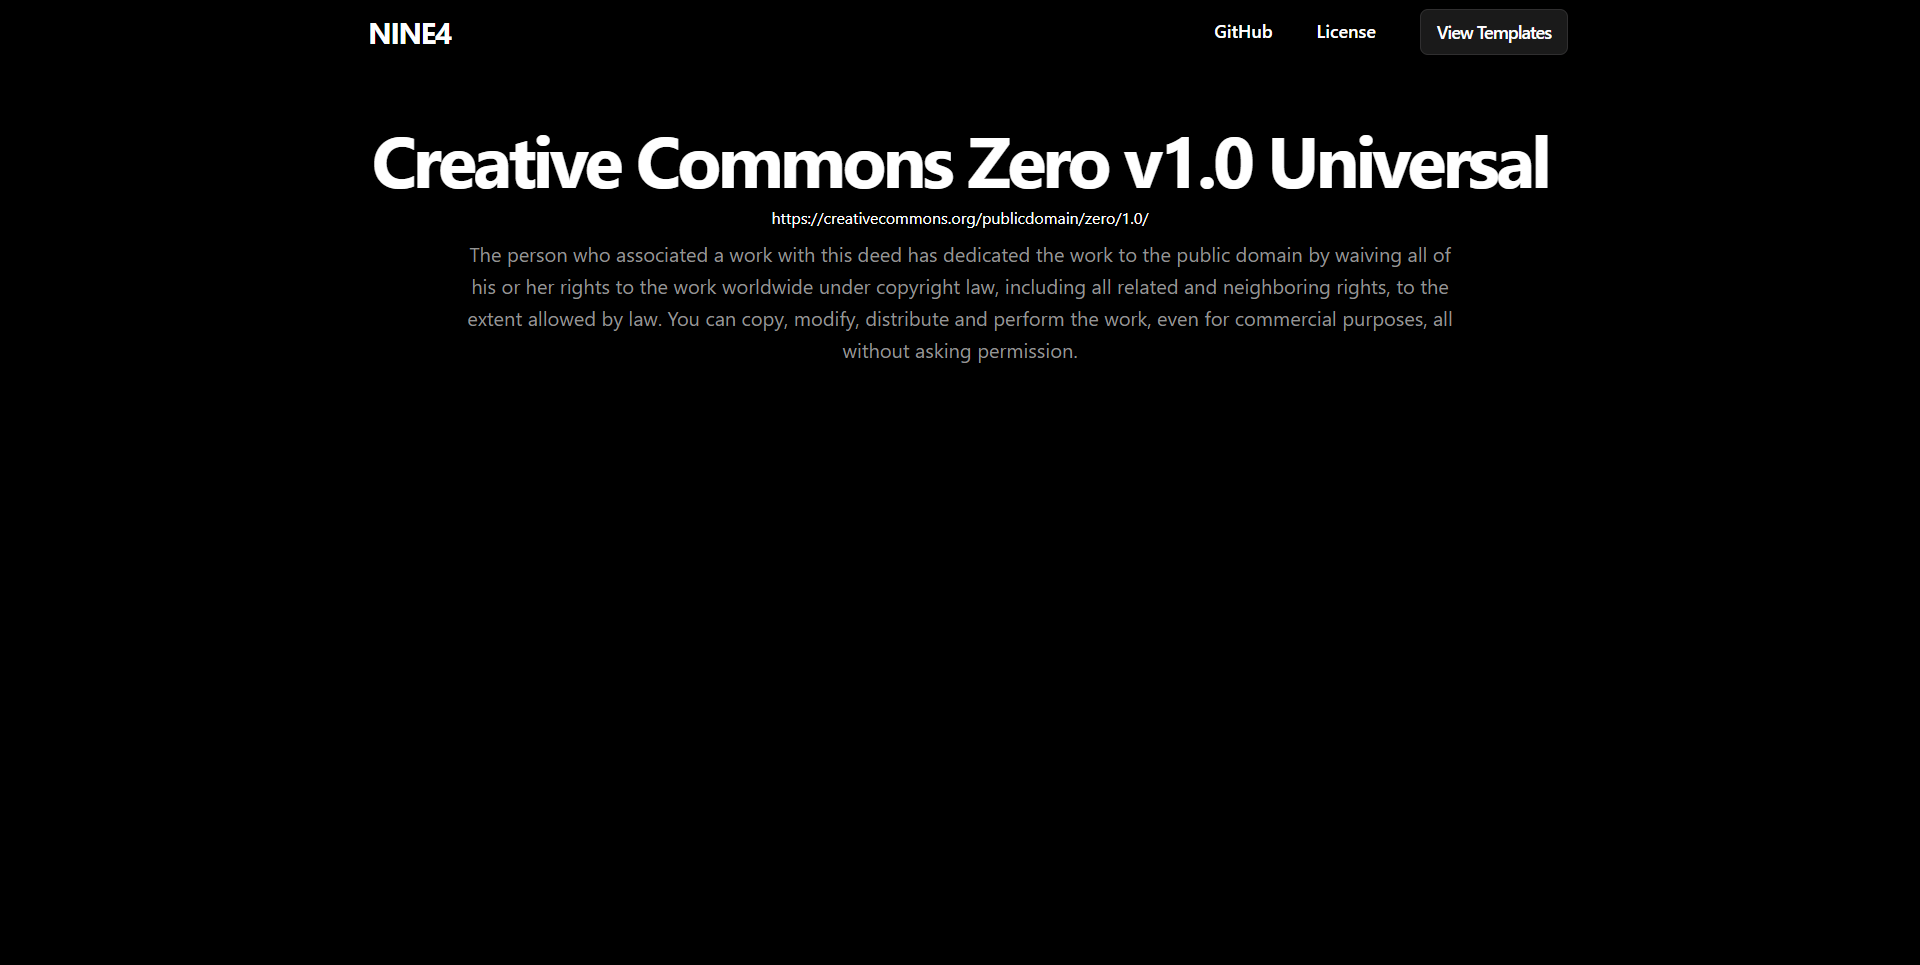
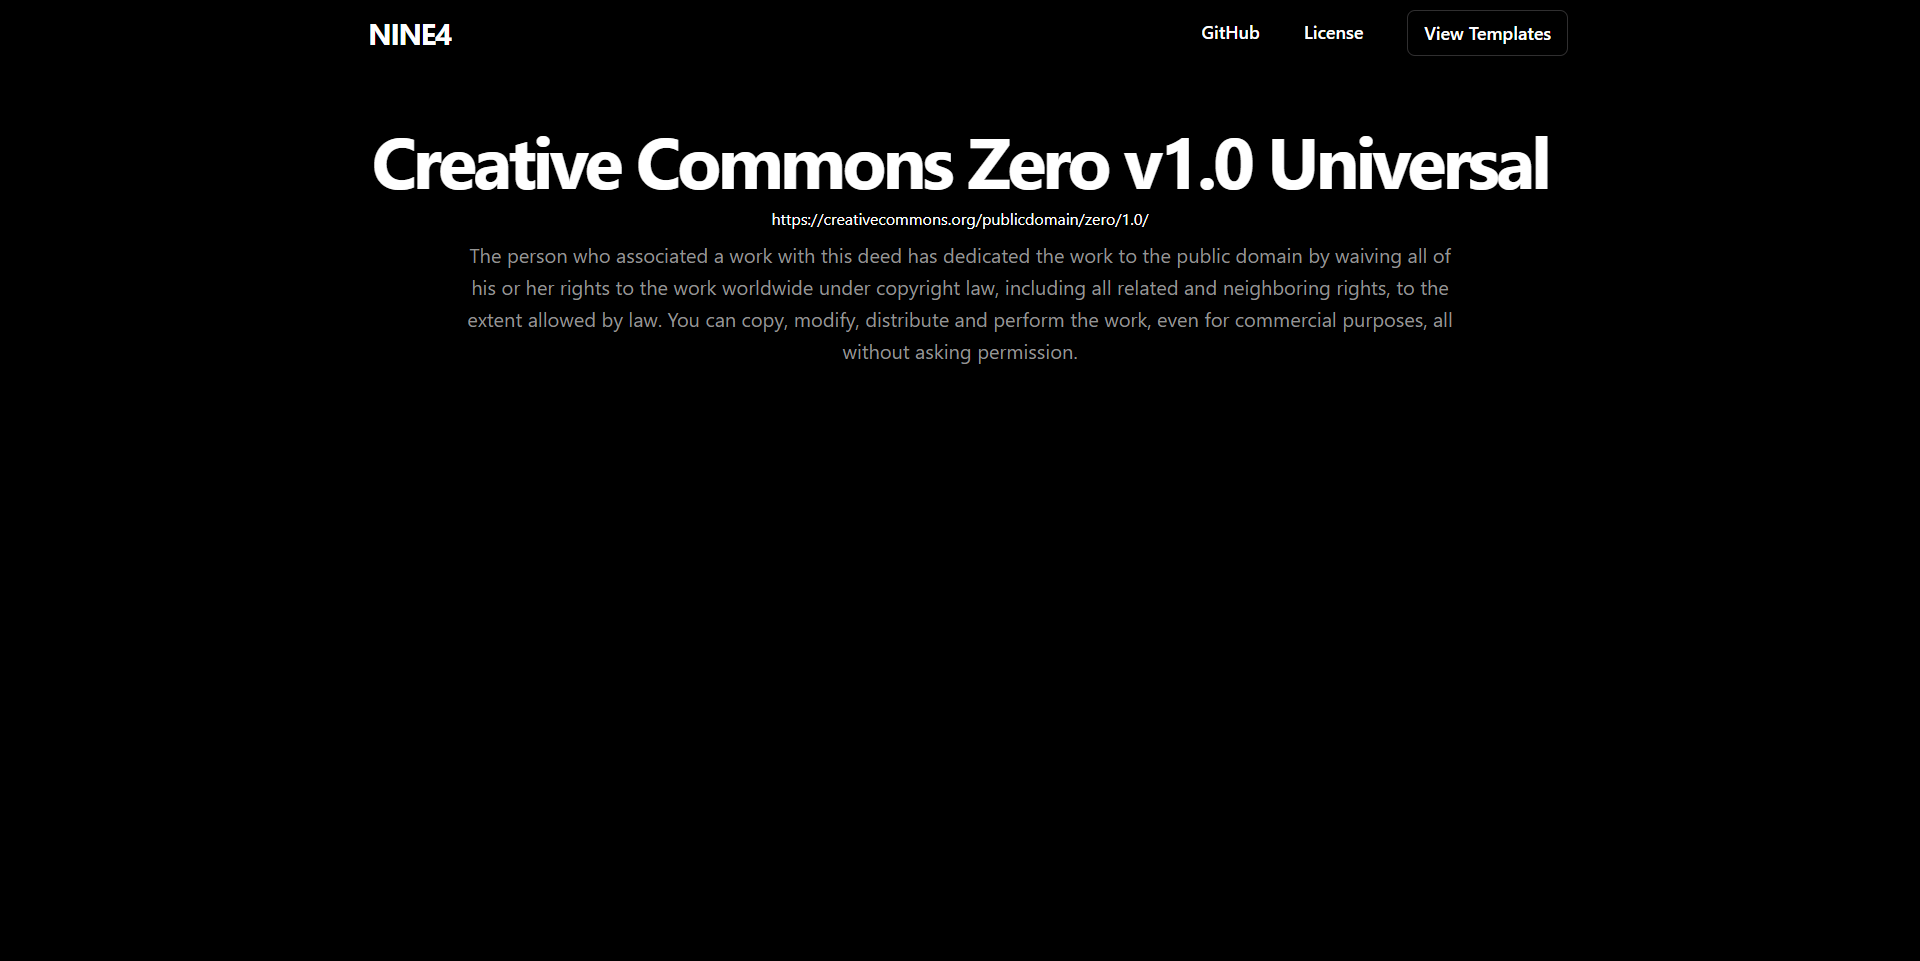
done(image): template#3 finished

diff --git a/components/Layout.js b/components/Layout.js
@@ -1,8 +1,8 @@
 export default function Main() {
   return (
-    <section className="text-black body-font lg:pt-14">
+    <section className="text-black body-font lg:pt-7">
       <div className="container px-5 mx-auto lg:px-4 lg:py-4">
-        <div className="flex flex-col w-full mb-2 text-left md:text-center ">
+        <div className="flex flex-col w-full text-left md:text-center ">
           <h1 className="mb-1 text-6xl font-bold tracking-tighter text-center text-white lg:text-8xl md:text-7xl">
             Free template sites for{" "}
             <span className="bg-clip-text text-transparent bg-gradient-to-r from-blue-700 to-blue-500">

diff --git a/styles/globals.css b/styles/globals.css
@@ -70,3 +70,15 @@ a {
   word-wrap: break-word; 
   white-space: pre-wrap;
 }
+
+*::-webkit-scrollbar {
+  width: 8px;
+}
+
+*::-webkit-scrollbar-track {
+  background: rgb(0, 0, 0);
+}
+
+*::-webkit-scrollbar-thumb {
+  background-color: rgb(36, 35, 35);
+}
